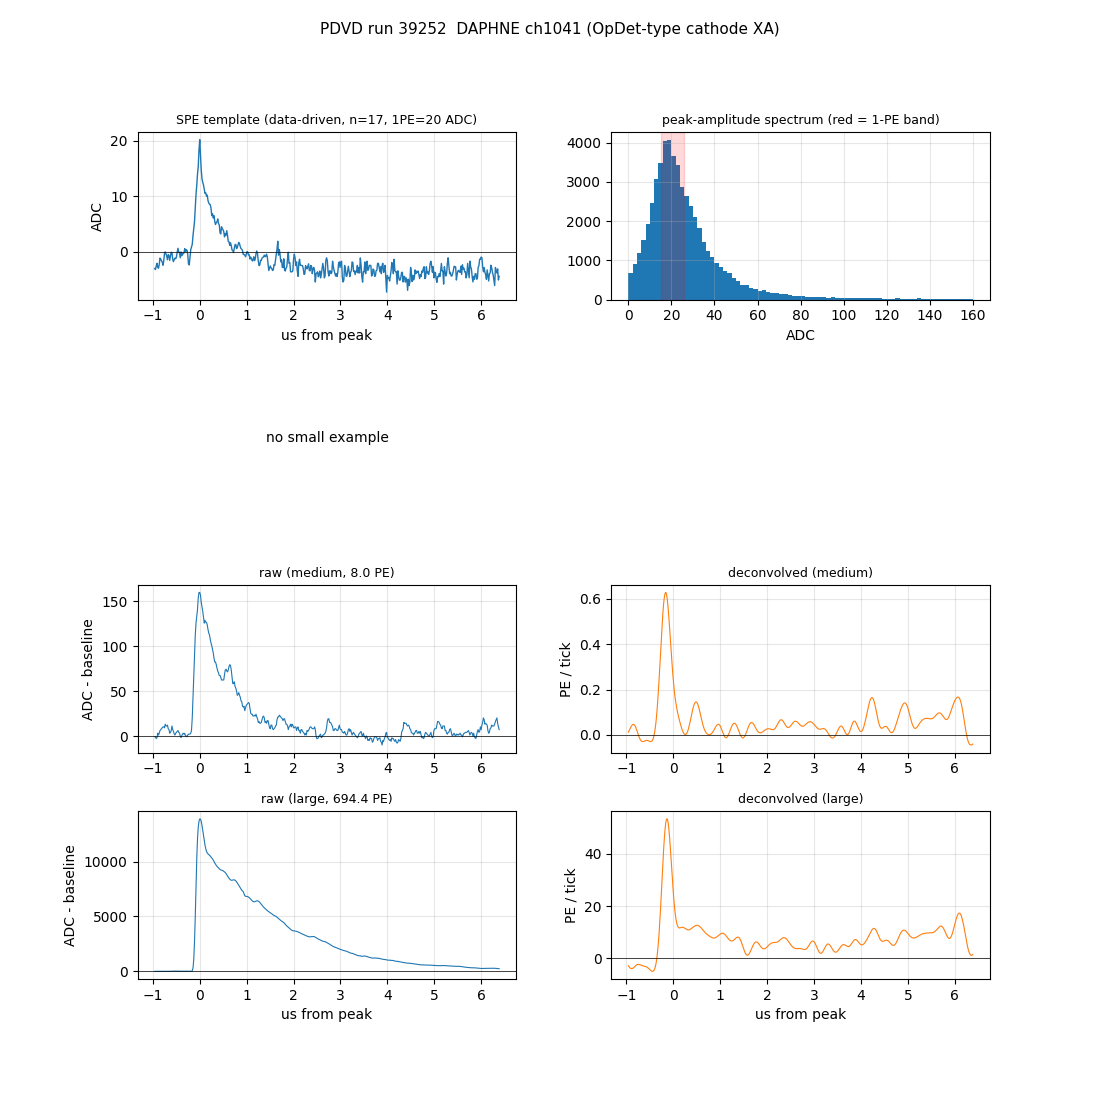
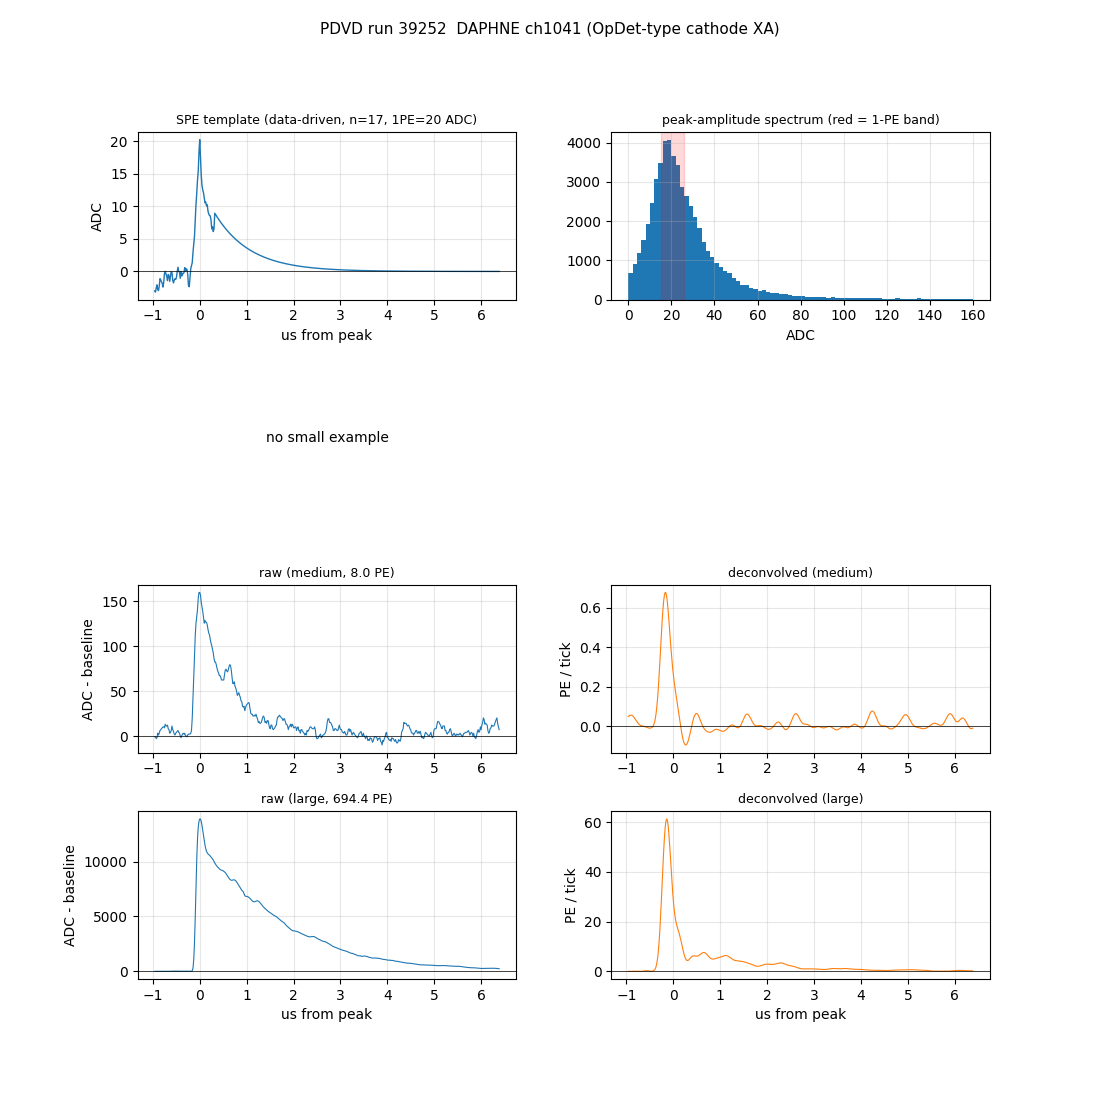
pdvd: repair cathode SPE-template tail (harvest baseline bias, no AC undershoot)
The 1-PE-averaged cathode templates carried a spurious near-constant
negative tail (-2..-4 ADC): local pre-peak pedestals sit on falling tails
of earlier activity in the busy full stream.  Used as a decon kernel this
made bright pulses deconvolve to a non-decaying ~12% positive plateau
(user-spotted in pd_ch1010.png) instead of returning to baseline like the
membrane XA.

Bright-pulse medians (>=30 PE, 51us windows, n~700-1100/ch, new
spe_longtail.py + spe_cathode_longtail.png) show the true response:
positive slow component (tau 0.6-1.2us) decaying to zero by ~25us, NO AC
undershoot above 5e-4 of prompt -- the earlier 'AC recovery longer than
the 6.4us window' claim was this bias, not electronics.

Fix (spe_build.repair_fs_tail, cathode channels only): fit a*exp(-t/tau)+c
beyond +0.32us, keep the exponential, drop the bias c.  ch1010 decon
tail/peak of >=8 PE pulses: 0.115 -> 0.020, at/below the membrane
late-light benchmark (0.026-0.075), flat vs amplitude.  Held-out residual
(own channel) 2.8 -> 1.0%.  Membrane/PMT templates and figures unchanged
(byte-identical).

Claude-Session: https://claude.ai/code/session_015thGpWH8Y9CGUYYBKbX7PB

diff --git a/pdvd/pd_plot/spe_longtail.py b/pdvd/pd_plot/spe_longtail.py
@@ -1,0 +1,108 @@
+#!/usr/bin/env python3
+"""Cathode XA long-time single-pulse response from bright stream pulses.
+
+Evidence behind the template tail repair (spe_build.repair_fs_tail): median
+of amplitude-normalized isolated bright pulses (>=30 PE) over a 51 us
+window, per cathode channel.  Shows the true response = fast peak + positive
+slow component (tau ~ 0.6-1.2 us, late light + slow XA response) decaying to
+zero by ~25 us, with NO measurable AC undershoot (<5e-4 of the prompt) --
+i.e. the negative near-constant tail of the raw 1-PE-averaged templates is a
+harvest baseline bias (local pre-peak pedestals sit on falling tails of
+earlier activity in the busy stream), not electronics.
+
+Output: docs/pds/spe_cathode_longtail.png
+Usage: spe_longtail.py [file_index]   (default 0 = run 039252)
+"""
+import os
+import sys
+
+import numpy as np
+from scipy.signal import find_peaks
+from scipy.optimize import curve_fit
+import matplotlib
+matplotlib.use("Agg")
+import matplotlib.pyplot as plt
+
+sys.path.insert(0, os.path.dirname(os.path.abspath(__file__)))
+import pdvd_light as pl
+import spe_build as sb
+import spe_compare as sc
+
+TICK_US = pl.TICK_NS / 1000.0
+NPRE, NPOST = 100, 3200        # -1.6 .. +51.2 us
+PE_MIN = 30.0
+
+
+def channel_median(f, ch, mode):
+    """median amplitude-normalized shape over isolated bright pulses."""
+    stack = []
+    for evt in f.events:
+        for r in f.records(evt, fullstream_only=True):
+            if r["opch"] != ch:
+                continue
+            adc = r["adc"]
+            med, _ = pl.pedestal_robust(adc)
+            w = adc - med
+            hp = sb.hpf(w)
+            dsig = np.median(np.abs(np.diff(adc))) * 1.4826 / np.sqrt(2)
+            pks, _ = find_peaks(hp, height=8 * dsig, distance=400)
+            for p in pks:
+                if p < NPRE + 50 or p + NPOST > len(w):
+                    continue
+                base = w[p - 90:p - 20].mean()
+                amp = w[p] - base
+                if amp / mode < PE_MIN or adc[p - 5:p + 5].max() >= pl.ADC_RAIL:
+                    continue
+                if hp[p - NPRE:p - 8].max() > 0.3 * amp:
+                    continue
+                stack.append((w[p - NPRE:p + NPOST] - base) / amp)
+    return np.asarray(stack)
+
+
+def main():
+    idx = int(sys.argv[1]) if len(sys.argv) > 1 else 0
+    f = pl.LightFile(pl.data_files()[idx])
+    harvest = sc.load_harvest(f.run)
+    cath = [ch for ch in sorted(harvest) if ch < 2000]
+
+    fig, axes = plt.subplots(4, 4, figsize=(18, 12), sharex=True)
+    tt = np.arange(-NPRE, NPOST) * TICK_US
+    print(f"run {f.run}: cathode bright-pulse (>= {PE_MIN:.0f} PE) median "
+          f"shape / prompt amplitude")
+    for ax, ch in zip(axes.flat, cath):
+        stack = channel_median(f, ch, float(harvest[ch]["mode"]))
+        if len(stack) < 5:
+            ax.set_title(f"ch{ch}: n={len(stack)} (too few)", fontsize=9)
+            ax.axis("off")
+            continue
+        avg = np.median(stack, axis=0)
+        ax.plot(tt, avg, lw=0.8)
+        ax.axhline(0, color="k", lw=0.5)
+        ax.set_yscale("symlog", linthresh=1e-3)
+        ax.grid(alpha=0.3)
+        # AC-recovery probe: fit beyond 12 us where the light has died
+        m = tt > 12.0
+        try:
+            popt, _ = curve_fit(lambda t, a, tau: a * np.exp(-t / tau),
+                                tt[m], avg[m], p0=(avg[m][0], 20.0),
+                                maxfev=20000)
+            ax.plot(tt[m], popt[0] * np.exp(-tt[m] / popt[1]), "r--", lw=1)
+        except Exception:
+            pass
+        ax.set_title(f"ch{ch}  n={len(stack)}", fontsize=9)
+        print(f"  ch{ch}: n={len(stack):4d}  @6.4us={avg[NPRE + 400]:+.4f}  "
+              f"@12us={avg[NPRE + 750]:+.4f}  @25us={avg[NPRE + 1600]:+.4f}  "
+              f"@50us={avg[NPRE + 3150]:+.4f}")
+    for ax in axes[-1]:
+        ax.set_xlabel("us from peak")
+    fig.suptitle(f"PDVD run {f.run}: cathode XA median bright-pulse shape / "
+                 f"prompt amplitude (symlog) — positive slow tail, no AC "
+                 f"undershoot down to ~5e-4")
+    fig.tight_layout(rect=[0, 0, 1, 0.96])
+    out = os.path.join(pl.PICS, "spe_cathode_longtail.png")
+    fig.savefig(out, dpi=110)
+    print("wrote", out)
+
+
+if __name__ == "__main__":
+    main()

diff --git a/pdvd/pd_plot/spe_build.py b/pdvd/pd_plot/spe_build.py
@@ -27,6 +27,7 @@ import sys
 
 import numpy as np
 from scipy.signal import find_peaks
+from scipy.optimize import curve_fit
 import matplotlib
 matplotlib.use("Agg")
 import matplotlib.pyplot as plt
@@ -45,6 +46,9 @@ MIN_PULSES = 10              # min accepted pulses to keep a channel template
 
 # full-stream small-pulse search
 FS_SEED_NSIGMA = 5.0
+
+# cathode template tail repair: start of the fitted region (ticks after peak)
+REPAIR_T0 = 20
 
 
 def one_pe_mode(amps, lo=10, hi=250, bins=60):
@@ -165,6 +169,48 @@ def fullstream_harvest(f, max_events=None):
     return out
 
 
+def repair_fs_tail(tmpl):
+    """Cathode template tail repair.
+
+    The local pre-peak baselines of the 1-PE harvest windows sit on slowly
+    falling tails of earlier activity in the busy stream, biasing the whole
+    extracted window low by a near-constant (~-3 ADC).  That spurious
+    negative tail (~-14% of the 1-PE peak, per sample, over 6 us) corrupts
+    the decon kernel at low frequency: bright pulses deconvolve to a
+    non-decaying positive plateau (~12% of the prompt spike) instead of
+    returning to baseline like the membrane XA.
+
+    Bright-pulse medians (n~800-1100/ch, amplitude-normalized, 50 us
+    windows) show the TRUE response: a positive slow component (tau ~1.2 us)
+    and NO measurable undershoot (<5e-4 of prompt beyond 25 us) -- the AC
+    coupling is invisible on these timescales.
+
+    Repair: fit a*exp(-t/tau)+c beyond +REPAIR_T0 ticks and keep only the
+    exponential (c = the baseline bias).  Validated on ch1010: decon
+    tail/peak of >=8 PE pulses drops 0.115 -> 0.020, at/below the membrane
+    late-light benchmark (0.026-0.075), flat vs amplitude.
+    -> (repaired template, fit params (a, tau_ticks, c) or None)"""
+    if tmpl is None:
+        return None, None
+    x = np.arange(len(tmpl), dtype=float) - PRE
+    xi, yi = x[PRE + REPAIR_T0:], tmpl[PRE + REPAIR_T0:]
+
+    def f(t, a, tau, c):
+        return a * np.exp(-t / tau) + c
+
+    try:
+        popt, _ = curve_fit(f, xi, yi,
+                            p0=(max(float(yi[:20].mean()), 1.0), 60.0,
+                                float(yi[-60:].mean())),
+                            bounds=([0, 5, -np.inf], [np.inf, 500, np.inf]),
+                            maxfev=20000)
+    except Exception:
+        return tmpl, None
+    out = tmpl.copy()
+    out[PRE + REPAIR_T0:] = popt[0] * np.exp(-xi / popt[1])
+    return out, popt
+
+
 def fs_select_and_average(d, mode, rms):
     stack = []
     pk = PRE + 50
@@ -225,11 +271,20 @@ def main():
                 print(f"  ch{ch}: no usable 1-PE mode (n={len(amps)})")
                 continue
             tmpl, npass, ta, tb = fs_select_and_average(fs[ch], mode, rms)
+            tmpl, tailfit = repair_fs_tail(tmpl)
+            ta, _ = repair_fs_tail(ta)
+            tb, _ = repair_fs_tail(tb)
             results[ch] = dict(amps=amps, mode=mode, rms=rms,
                                tmpl=tmpl, npass=npass, tmpl_a=ta, tmpl_b=tb)
+            if tailfit is not None:
+                results[ch]["tailfit"] = np.asarray(tailfit)
             status = "OK" if tmpl is not None else "TOO FEW"
+            fitmsg = ("" if tailfit is None else
+                      f"  tail fit a={tailfit[0]:.2f} "
+                      f"tau={tailfit[1] * pl.TICK_NS / 1000:.2f}us "
+                      f"bias c={tailfit[2]:+.2f}")
             print(f"  ch{ch}: mode={mode:6.1f} rms={rms:5.2f} "
-                  f"selected={npass:4d} {status}")
+                  f"selected={npass:4d} {status}{fitmsg}")
 
         np.savez_compressed(
             os.path.join(WORK, f"harvest_r{f.run:06d}.npz"),

diff --git a/pdvd/docs/pdvd-spe-template.md b/pdvd/docs/pdvd-spe-template.md
@@ -8,22 +8,29 @@ All results are from run 039252 (18 events), Python studies with the validated N
 post-filter as the starting point — the dedicated filter scan is milestone 2).
 
 > Scripts: `pdvd/pd_plot/pdvd_light.py` (loader + decon port), `spe_build.py` (pulse harvest +
-> template averaging), `spe_compare.py` (try-and-compare + per-PD figures).
+> template averaging + cathode tail repair), `spe_compare.py` (try-and-compare + per-PD
+> figures), `spe_longtail.py` (cathode bright-pulse long-window medians).
 > Figures: `pdvd/docs/pds/` — `pd_ch<CCCC>.png` (one per DAPHNE channel: template |
 > amplitude spectrum | raw and deconvolved small/medium/large example pulses),
 > `spe_amplitude_spectra.png`, `spe_templates_by_population.png`, `spe_template_compare.png`,
-> `spe_summary.json` (per-channel numbers). **Which `pd_ch*.png` is which physical PD: §7.**
+> `spe_cathode_longtail.png`, `spe_summary.json` (per-channel numbers).
+> **Which `pd_ch*.png` is which physical PD: §7.**
 
 ---
 
 ## TL;DR
 
 - **Data-driven templates win, per channel.** Out-of-sample decon-tail residual (build the
-  template on half the pulses, deconvolve the held-out half): **0.4–2.8 %** for the
-  data-driven templates vs **18–41 %** for the PDHD `SPE_NP04_{FBK,HPK}_2024` templates and
-  **3.4–7.7 %** for the analytic `SPE_NP02_estimate`. The PDVD pulse shapes are simply
+  template on half the pulses, deconvolve the held-out half): **0.4–1.2 %** for the
+  data-driven templates vs **8–31 %** for the PDHD `SPE_NP04_{FBK,HPK}_2024` templates and
+  **3.4–5.0 %** for the analytic `SPE_NP02_estimate`. The PDVD pulse shapes are simply
   different from PDHD (much slower decay, no deep undershoot) — the PDHD SiPM templates are
   ruled out as-is.
+- **Cathode template tails are repaired for a harvest baseline bias** (§2 step 4): the raw
+  1-PE averages carried a spurious near-constant −2…−4 ADC tail; bright-pulse medians show the
+  true response is a positive slow component (τ ≈ 0.6–1.2 µs) with **no AC undershoot** down
+  to 5×10⁻⁴ of the prompt out to 50 µs. Without the repair, bright cathode pulses deconvolve
+  to a non-decaying ~12 % plateau instead of returning to baseline.
 - **All 51 live DAPHNE channels are demonstrated** (`pd_ch*.png`): 42 with their own
   template, 9 low-statistics channels (8 cathode + ch2010) with the population-average shape
   scaled to the channel 1-PE amplitude.
@@ -39,7 +46,7 @@ post-filter as the starting point — the dedicated filter scan is milestone 2).
 
 | population | channels | readout | pulse shape | noise RMS (ADC) |
 |---|---|---|---|---|
-| cathode XA (10xx, OpDet 4–11) | 16 | full-stream 468800/468864 | fast peak (FWHM ~12 ticks ≈ 0.2 µs) + slow **AC-coupling recovery** (negative tail, > 6 µs) | 2.1–3.2 (quiet); two noisy pairs (§6) |
+| cathode XA (10xx, OpDet 4–11) | 16 | full-stream 468800/468864 | fast peak (FWHM ~12 ticks ≈ 0.2 µs) + positive slow tail (τ ≈ 0.6–1.2 µs); **no measurable AC undershoot** (< 5×10⁻⁴ of prompt out to 50 µs) | 2.1–3.2 (quiet); two noisy pairs (§6) |
 | membrane XA (20xx) | 15 (ch2031 absent) | self-trigger 1024 | slow unipolar decay, FWHM 22–54 ticks, tiny undershoot | bottom ~2–3, **top 5–10** |
 | PMT (30xx) | 20 live | self-trigger 1024 | very fast (FWHM 2–3 ticks, undersampled at 16 ns) + small afterpulse bump | 1.4–2.1 |
 
@@ -50,8 +57,9 @@ Notes:
   finding/isolation on the cathode therefore runs on a high-passed trace (OpRoi-style
   `1−exp(−(f/0.05 MHz)²)`), while templates are extracted from the **raw** trace.
 - The PDVD membrane XA pulse decays several times slower than the PDHD NP04 templates and has
-  no deep AC undershoot; the cathode (full-stream) XA is AC-coupled like the PDHD full-stream
-  channels but with a much longer, shallower recovery.
+  no deep AC undershoot; the cathode (full-stream) XA shows **no PDHD-style AC undershoot at
+  all** down to the 5×10⁻⁴ level (bright-pulse medians out to 50 µs,
+  `spe_cathode_longtail.png`) — on reconstruction timescales it behaves DC-coupled.
 
 ## 2. Template construction
 
@@ -67,6 +75,21 @@ Per DAPHNE channel (`spe_build.py`):
 3. **Average**: align on the peak sample; mean in the peak region, per-sample **median**
    beyond +1.6 µs (robust to residual pileup); split-half (odd/even pulses) copies kept for
    out-of-sample validation.
+4. **Cathode tail repair** (`repair_fs_tail`; cathode channels only). The raw 1-PE averages
+   carry a spurious near-constant negative tail (−2…−4 ADC ≈ −10…−15 % of the 1-PE peak *per
+   sample* over 6 µs): the local pre-peak pedestals of the harvest windows sit on slowly
+   falling tails of earlier activity in the busy stream, biasing the whole window low. Used
+   as a decon kernel this corrupts the low frequencies — **bright pulses deconvolve to a
+   non-decaying positive plateau** (~12 % of the prompt spike per tick; this is what the
+   original `pd_ch10xx.png` showed). The truth is measured from bright pulses, where the tail
+   is far above noise: median amplitude-normalized shape of isolated ≥30 PE pulses over 51 µs
+   windows (n ≈ 700–1100 per channel, `spe_cathode_longtail.png` / `spe_longtail.py`) shows a
+   **positive** slow component (τ ≈ 0.6–1.2 µs — late light plus slow XA response) decaying
+   to zero by ~25 µs and **no AC undershoot above 5×10⁻⁴** of the prompt. Repair: fit
+   `a·e^(−t/τ) + c` to the template beyond +0.32 µs and keep only the exponential (`c` = the
+   baseline bias, dropped). Validation on ch1010: decon tail/peak of ≥8 PE pulses drops
+   **0.115 → 0.020**, at/below the membrane late-light benchmark (0.026–0.075) and flat vs
+   amplitude (8 → >150 PE), i.e. the remaining tail is real late light, as on the membrane.
 
 The stored template is the **mean 1-PE response in raw ADC** — its absolute scale IS the PE
 calibration (§4).
@@ -80,20 +103,22 @@ gives; PDHD convention, `pdhd-spe-template-tuning.md`). Mean |residual| in % of 
 
 | candidate | cathode XA | membrane XA | PMT |
 |---|---|---|---|
-| **data-driven (own channel)** | **2.8** | **1.2** | **0.4** |
-| data-driven (population avg) | 1.6 | 2.2 | 5.1 |
-| SPE_NP04_FBK_2024 (PDHD) | 23.3 | 17.7 | – |
-| SPE_NP04_HPK_2024 (PDHD) | 40.7 | 24.6 | – |
-| SPE_NP02_estimate (larsoft VD) | 7.7 | 3.4 | – |
+| **data-driven (own channel)** | **1.0** | **1.2** | **0.4** |
+| data-driven (population avg) | 2.1 | 2.2 | 5.1 |
+| SPE_NP04_FBK_2024 (PDHD) | 7.8 | 17.7 | – |
+| SPE_NP04_HPK_2024 (PDHD) | 31.1 | 24.6 | – |
+| SPE_NP02_estimate (larsoft VD) | 5.0 | 3.4 | – |
 
-(`spe_template_compare.png` shows the per-channel bars.)
+(`spe_template_compare.png` shows the per-channel bars. Cathode numbers are after the tail
+repair of §2 step 4 — kernels *and* held-out probes; before the repair, own-channel read
+2.8 % and the biased probe inflated all candidates.)
 
 **Decision:** per-channel data-driven templates for all populations; population-average shape
-(scaled to the channel 1-PE mode) for the 9 channels without enough clean 1-PE pulses. For
-the cathode the population average is even marginally better than own-channel (the per-channel
-tails are statistics-limited) — the final chain may use one template per population for the
-XAs, mirroring the PDHD per-TYPE lesson; to be frozen after the filter scan (milestone 2) and
-a cross-run stability check.
+(scaled to the channel 1-PE mode) for the 9 channels without enough clean 1-PE pulses. After
+the tail repair the own-channel cathode templates beat the population average (1.0 vs 2.1 %) —
+the final chain may still use one template per population for the XAs, mirroring the PDHD
+per-TYPE lesson; to be frozen after the filter scan (milestone 2) and a cross-run stability
+check.
 
 The 6-sample ProtoDUNE-DP PMT waveform (`protoDUNEDP_waveform_20180927.txt`, area exactly 410
 = the larsoft `SPEArea`) is unusable as a 16 ns-sampled shape; it remains only a historical
@@ -151,18 +176,19 @@ reasonable **interim default** — but *not* a free transfer, because the cathod
 **different signal path**. They sit on the HV cathode and (in the VD design) are powered and
 read out over fiber (power-/signal-over-fiber) rather than the directly-cabled membrane
 modules — a different front-end gain. The measured pulse shape is the fingerprint of this:
-the cathode is **AC-coupled** (fast peak + long negative recovery), while the membrane is a
-clean unipolar decay. Same photons, different electronics ⇒ ADC-per-PE almost certainly
-differs (this is also the likely origin of the "lower effective gain").
+the cathode peak is far **faster** (FWHM ≈ 0.2 µs) than the membrane's slow unipolar decay
+(0.35–0.9 µs). Same photons, different electronics ⇒ ADC-per-PE almost certainly differs
+(this is also the likely origin of the "lower effective gain").
 
 Consequences if you do transfer:
 
-- Transfer the 1-PE **area, not the amplitude** — the AC shape lowers the peak for a given
-  charge, so matching peak heights would be wrong.
-- Even area transfer is only approximate: AC differentiation pushes some of the SPE charge out
-  of the fast lobe into the slow recovery tail, so equal *total* charge ≠ equal charge inside
-  the AutoScale integration window. And it is valid only if the cathode SoF/DAPHNE gain and OV
-  are confirmed equal to the membrane's.
+- Transfer the 1-PE **area, not the amplitude** — the two shapes distribute a given charge
+  very differently in time (narrow cathode peak vs broad membrane pulse), so matching peak
+  heights would be wrong.
+- Even area transfer is only approximate: the shapes split their charge differently between
+  the fast lobe and the slow tail, so equal *total* charge ≠ equal charge inside the AutoScale
+  integration window. And it is valid only if the cathode SoF/DAPHNE gain and OV are confirmed
+  equal to the membrane's.
 
 ### Anchors, in order of effort
 
@@ -175,11 +201,11 @@ Consequences if you do transfer:
    ±(SoF gain unknown), valid only if the hardware settings match.
 4. **Ask the PDS group** for the cathode SoF/DAPHNE gain settings — the authoritative answer.
 
-A second cathode caveat: the AC recovery is **longer than the 6.4 µs template window** (the
-negative tail has not returned to zero at the window end). Isolated-medium-pulse probes of the
-full recovery failed on this cosmic-rich data (every long window contains later light); the
-truncation shows up only as a ≲2 % slow residual after bright pulses and will be revisited
-together with the OpRoi settings for the 7.5 ms stream.
+(An earlier caveat here claimed the AC recovery extends past the 6.4 µs template window. That
+negative tail was the **harvest baseline bias**, now measured and repaired — §2 step 4. The
+bright-pulse medians show no undershoot at all down to 5×10⁻⁴ of the prompt out to 50 µs, so
+on reconstruction timescales the cathode behaves DC-coupled and AC-recovery truncation drops
+out of the transfer question entirely.)
 
 ## 6. Channel flags
 
@@ -273,13 +299,15 @@ carries the rest.)
 
 ```bash
 cd pdvd
-python3 pd_plot/spe_build.py 0          # harvest run 039252 -> work/light_spe/harvest_r039252.npz
+python3 pd_plot/spe_build.py 0          # harvest run 039252 (+ cathode tail repair) -> work/light_spe/harvest_r039252.npz
 python3 pd_plot/spe_compare.py 39252    # comparison + all docs/pds figures + spe_summary.json
+python3 pd_plot/spe_longtail.py 0       # cathode bright-pulse long-window medians (repair evidence)
 ```
 
 ## 9. Open items
 
-- Cathode PE-scale anchor (§5) and AC-recovery tail beyond 6.4 µs.
+- Cathode PE-scale anchor (§5). (The former "AC-recovery tail beyond 6.4 µs" item is
+  resolved: it was the harvest baseline bias, repaired in §2 step 4 — no undershoot exists.)
 - ch3020 / ch2020 template re-selection; ch2010 needs a quieter run or longer statistics.
 - Cross-run stability: repeat on 039253 / 039349 before freezing `pdvd-spe-templates.json`.
 - SiPM vendor (FBK vs HPK) per module still unknown — now moot for the template choice
